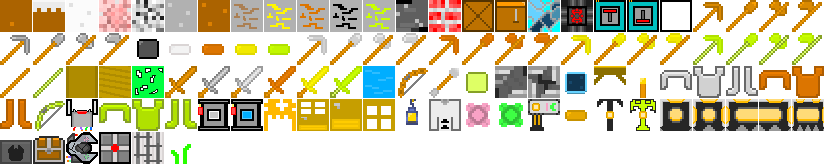
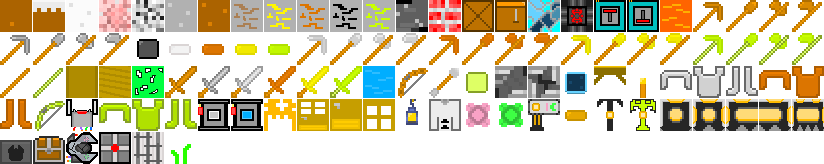
Swimming & Lava

Changed region(s): [[0.7888, 0.0, 0.8495, 0.2134]]

diff --git a/Assets/Scripts/Controllers/PlayerController.cs b/Assets/Scripts/Controllers/PlayerController.cs
@@ -16,6 +16,7 @@ public class PlayerController : MonoBehaviour, IDamager
     [SerializeField] public DeathScreenController deathScreenController;
     Animator animations;
     Rigidbody2D rb2D;
+    EntityCommonScript entityScript;
     MainSoundController soundController;
     bool spawned = false;
     public float damagedCooldown = 0.5f;
@@ -49,7 +50,7 @@ public class PlayerController : MonoBehaviour, IDamager
                     Hitbox();
                     if (onControl)
                         PlayerControl();
-                    LecterAI(); ;
+                    LecterAI();
                     Camera.main.transform.eulerAngles = Vector3.zero;
                 }
 
@@ -109,6 +110,7 @@ public class PlayerController : MonoBehaviour, IDamager
         healthBar.SetHealth(HP);
         animations.SetBool("killed", false);
         GetComponent<SpriteRenderer>().enabled = true;
+        entityScript = GetComponent<EntityCommonScript>();
         for (int i = 0; i < 3; i++)
         {
             transform.GetChild(1).GetChild(i).GetComponent<SpriteRenderer>().enabled = true;
@@ -237,6 +239,8 @@ public class PlayerController : MonoBehaviour, IDamager
         if (GInput.GetKey(KeyCode.S))
         {
             gameManager.DropOn(transform.position - new Vector3(0f, 0.6f, 0f), 0.5f);
+
+
         }
 
         if (Grounded && alive)
@@ -264,6 +268,24 @@ public class PlayerController : MonoBehaviour, IDamager
         {
             rb2D.velocity = Vector2.right * rb2D.velocity.x;
             rb2D.AddForce(new Vector2(0, JumpForce));
+        }
+
+        if (Input.GetKey(KeyCode.W))
+        {
+            if (entityScript.entityStates.Contains(EntityState.Swimming))
+            {
+                rb2D.velocity = new Vector2(rb2D.velocity.x, 4f);
+                entityScript.swimming = 4f;
+            }
+        }
+        else if(Input.GetKey(KeyCode.S))
+        {
+            rb2D.velocity = new Vector2(rb2D.velocity.x, -5f);
+            entityScript.swimming = 5f;
+        }
+        else
+        {
+            entityScript.swimming = 0f;
         }
 
         //if (GInput.GetKey(KeyCode.W))
@@ -363,7 +385,7 @@ public class PlayerController : MonoBehaviour, IDamager
 
     void LecterAI()
     {
-        if (GetComponent<EntityCommonScript>().entityStates.Contains(EntityState.OnFire))
+        if (entityScript.entityStates.Contains(EntityState.OnFire))
         {
             transform.GetChild(3).GetComponent<SpriteRenderer>().enabled = true;
             LoseHp(1, false, 0);
@@ -454,11 +476,6 @@ public class PlayerController : MonoBehaviour, IDamager
             DeathFase();
         }
     }
-
-    //private void OnCollisionEnter2D(Collision2D collision)
-    //{
-    //    Debug.Log("heya", collision.gameObject);
-    //}
 
     IEnumerator Kill()
     {

diff --git a/Assets/Scripts/Attachs/EntityCommonScript.cs b/Assets/Scripts/Attachs/EntityCommonScript.cs
@@ -13,10 +13,17 @@ public class EntityCommonScript : MonoBehaviour
     public string EntityFamily = "null";
 
     [Header("Secondary")]
-    public List<EntityState> entityStates = new List<EntityState>();
-    public List<float> stateDuration = new List<float>();
     public bool saveToFile = false;
     public bool canBeNetworked = true;
+    public Rigidbody2D rb2D;
+
+    [Header("States")]
+    public List<EntityState> entityStates = new List<EntityState>();
+    public List<float> stateDuration = new List<float>();
+    public bool affectedByLiquids = true;
+    public float swimming = 0;
+
+
 
     private void OnValidate()
     {
@@ -31,6 +38,19 @@ public class EntityCommonScript : MonoBehaviour
         else
         {
             entityDamager = damagerObject.GetComponent<IDamager>();
+        }
+
+        if (rb2D == null)
+        {
+            if (gameObject.GetComponent<Rigidbody2D>())
+            {
+                rb2D = gameObject.GetComponent<Rigidbody2D>();
+                Debug.Log("Autoimported Rigidbody for " + gameObject.name);
+            }
+            else
+            {
+                Debug.LogError("Rigidbody of " + gameObject.name + " is null");
+            }
         }
     }
 
@@ -89,9 +109,28 @@ public class EntityCommonScript : MonoBehaviour
             }
         }
     }
+
+    private void OnTriggerStay2D(Collider2D collider)
+    {
+        if (affectedByLiquids)
+            if (collider.gameObject.layer == 10)
+            {
+                if (swimming == 0f)
+                    rb2D.velocity = Vector2.ClampMagnitude(rb2D.velocity, 2);
+                else
+                    rb2D.velocity = Vector2.ClampMagnitude(rb2D.velocity, swimming);
+
+
+                AddState(EntityState.Swimming, 0.1f);
+                if (rb2D.transform.position.y < collider.transform.position.y + 0.5f)
+                {
+                    AddState(EntityState.Swimming, 0.1f);
+                }
+            }
+    }
 }
 
 public enum EntityState : int
 {
-    OnFire, Paralisis,
+    OnFire, Paralisis, Drowning, Swimming
 }

diff --git a/Assets/Scripts/Controllers/DroppedItemController.cs b/Assets/Scripts/Controllers/DroppedItemController.cs
@@ -7,9 +7,16 @@ public class DroppedItemController : MonoBehaviour, IDamager
     public int amount = 1;
     public float imunityGrab = 0;
     public bool gettingEnabled = true;
+    public bool floating = false;
 
     private void OnTriggerStay2D(Collider2D collision)
     {
+        if(floating)
+            if(collision.gameObject.layer == 10)
+            {
+                GetComponent<Rigidbody2D>().velocity = new Vector2(GetComponent<Rigidbody2D>().velocity.x, 1f);
+            }
+
         if (gettingEnabled)
             if (!GameManager.gameManagerReference.isNetworkClient)
                 if (imunityGrab <= 0f)
@@ -43,6 +50,15 @@ public class DroppedItemController : MonoBehaviour, IDamager
                     }
                 }
 
+    }
+
+    public void OnCollisionEnter2D(Collision2D collision)
+    {
+        if(collision.gameObject.layer == 8)
+        {
+            GetComponent<EntityCommonScript>().swimming = 1f;
+            floating = true;
+        }
     }
 
     public void Hit(int damageDeal, EntityCommonScript procedence, bool ignoreImunity = false, float knockback = 1f, bool penetrate = false)

diff --git a/Assets/Scripts/Controllers/CommandController.cs b/Assets/Scripts/Controllers/CommandController.cs
@@ -31,7 +31,7 @@ public class CommandController : MonoBehaviour {
             GameManager.gameManagerReference.SetTileAt((int)pos.x * GameManager.gameManagerReference.WorldHeight + ((int)pos.y + 10), 62, false);
         }
 
-        if (Input.GetKey(KeyCode.G) && Application.isEditor && GameManager.gameManagerReference.InGame)
+        if (Input.GetKeyDown(KeyCode.G) && Application.isEditor && GameManager.gameManagerReference.InGame)
         {
             ENTITY_NanoBotT1.StaticSpawn(null, GameManager.gameManagerReference.player.transform.position + Vector3.up * 5f);
         }
@@ -95,8 +95,7 @@ public class CommandController : MonoBehaviour {
                 if(input.Length == 1)
                 {
                     GameManager.gameManagerReference.InGame = true;
-                    GameManager.gameManagerReference.player.LoseHp(10000, true);
-                    GameManager.gameManagerReference.player.deathScreenController.InstaKill();
+                    GameManager.gameManagerReference.player.LoseHp(99999, true);
                 }
                 else if(input.Length == 2)
                 {

diff --git a/Assets/Scripts/GameManager.cs b/Assets/Scripts/GameManager.cs
@@ -923,7 +923,7 @@ public class GameManager : MonoBehaviour
 
         for (int i = 0; i < worldTileHeight.Length; i++)
         {
-            worldTileHeight[i] = (int)(Mathf.PerlinNoise(i * 0.02f, aaa) * (WorldHeight / 3)) + (WorldHeight / 2 /*0.5*/);
+            worldTileHeight[i] = (int)((Mathf.PerlinNoise(i * 0.04f, aaa) * 0.4f + Mathf.PerlinNoise(i * 0.01f, aaa) * 0.6f) * (WorldHeight / 3)) + (WorldHeight / 2 /*0.5*/);
         }
 
         for (int i = 0; i < WorldWidth; i++)
@@ -1048,7 +1048,7 @@ public class GameManager : MonoBehaviour
                         {
                             buildedMapGrid[idx] = floorSurfTile;
                         }
-                        if (e > worldTileHeight[i * 16 + i2] && e < WorldHeight * 0.6f)
+                        if (e > worldTileHeight[i * 16 + i2] && e < WorldHeight * 0.64f)
                         {
                             buildedMapGrid[idx] = 62;
 

diff --git a/Assets/Scripts/UI/Controllers/MenuController.cs b/Assets/Scripts/UI/Controllers/MenuController.cs
@@ -484,9 +484,9 @@ public class MenuController : MonoBehaviour {
     public void UpdateRenderChunkDistance(int idx)
     {
         int[] list = { 3, 5, 10, 20, 40 };
-        chunkLoadDistance = list[idx] * 20;
+        chunkLoadDistance = list[idx] * 16;
         chunksOnEachSide = list[idx];
-        Debug.Log("(OPTIONS)==CHUNKS ACTIVATED SET TO: " + idx + ". EQUALS: " + list[idx] + ".==");
+        Debug.Log("(OPTIONS)==CHUNKS ACTIVATED SET TO: " + idx + ". EQUALS: " + chunksOnEachSide + ":" + chunkLoadDistance + ".==");
     }
 
     public void UpdateResolution(int resIdx)

diff --git a/Assets/Scripts/Controllers/ChunkController.cs b/Assets/Scripts/Controllers/ChunkController.cs
@@ -290,6 +290,7 @@ public class ChunkController : MonoBehaviour, ITimerCall
                 string cT = manager.TileCollisionType[TileGrid[e]];
 
                 TileObject[e].GetComponent<BoxCollider2D>().enabled = true;
+                TileObject[e].GetComponent<BoxCollider2D>().isTrigger = cT == "~";
 
                 switch (cT)
                 {
